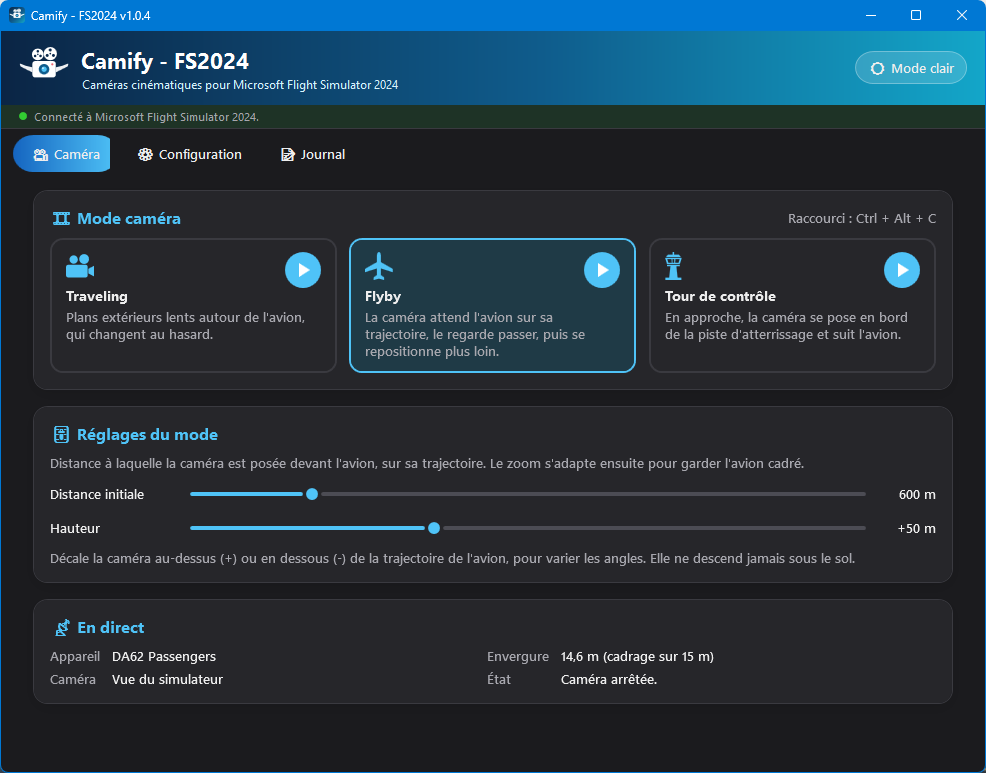
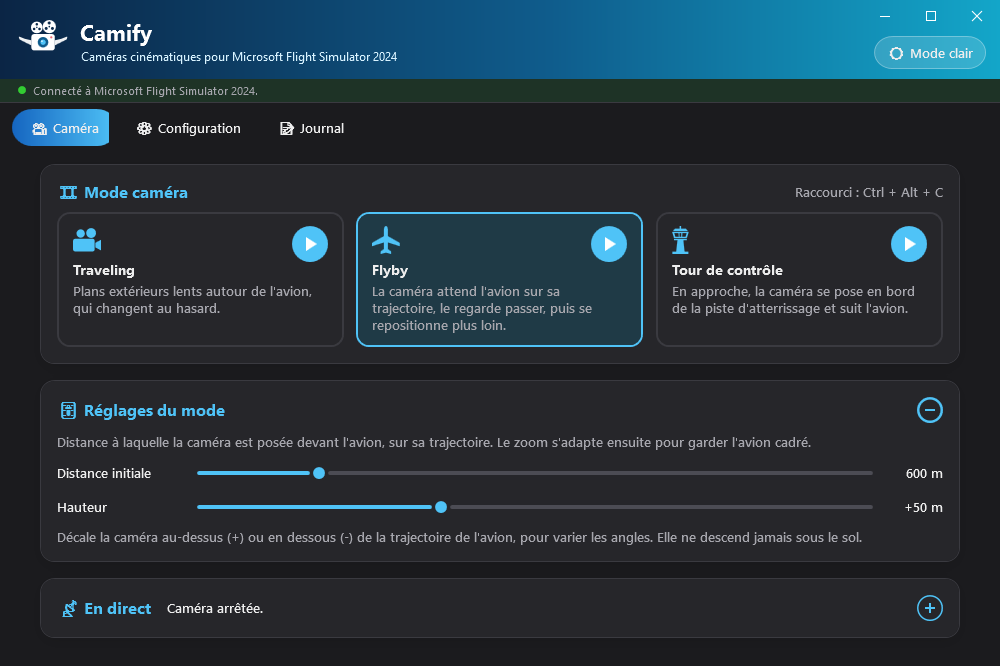
Guides de Camify : fenêtre sans cadre, cadres repliables, nouvelles captures
Guides et captures recopiés de Camify/docs ; CAMIFY_SIZES suit les nouvelles
hauteurs (la fenêtre s'ajuste aux cadres affichés).

diff --git a/guides/camify/guide-utilisateur.html b/guides/camify/guide-utilisateur.html
@@ -126,8 +126,14 @@
       <p class="section-lead">La bannière, l'indicateur de connexion, les trois onglets et le thème.</p>
       <div class="card">
         <ul>
-          <li>Une <strong>bannière</strong> en haut, avec le bouton <span class="btn-label">🌙 Mode sombre</span>
-          / <span class="btn-label">☀ Mode clair</span> qui bascule tout le thème de l'application
+          <li>Une <strong>bannière</strong> en haut, qui sert de barre de titre : faites-la glisser
+          pour déplacer la fenêtre, double-cliquez pour l'agrandir ou la restaurer. Les boutons
+          <strong>réduire</strong>, <strong>agrandir</strong> et <strong>fermer</strong> sont en haut
+          à droite ; sous Windows 11, survoler le bouton agrandir ouvre le <strong>menu
+          d'ancrage</strong> de Windows pour placer la fenêtre sur une moitié ou un quart de
+          l'écran, par exemple à côté du simulateur ;</li>
+          <li>Sous ces boutons, <span class="btn-label">🌙 Mode sombre</span>
+          / <span class="btn-label">☀ Mode clair</span> bascule tout le thème de l'application
           (conservé d'une session à l'autre) ;</li>
           <li>Une <strong>barre d'état</strong> avec un point de couleur (rouge = non connecté,
           vert = connecté). Tant que MSFS n'est pas disponible, Camify retente la connexion toutes
@@ -138,6 +144,10 @@
         <p>L'application s'affiche dans la <strong>langue de Windows</strong> si elle est disponible
         (français, anglais ou espagnol), et en <strong>anglais</strong> sinon. Vous pouvez en changer
         dans l'onglet <a href="#onglet-configuration">Configuration</a>.</p>
+        <p>Sur les onglets Caméra et Configuration, la <strong>hauteur de la fenêtre s'ajuste
+        toute seule</strong> à ce qui est affiché (cadre déplié ou replié, mode choisi, langue) : la
+        fenêtre reste aussi compacte que possible. Vous pouvez toujours la redimensionner par ses
+        bords.</p>
         <div class="shot-row">
           <figure class="shot">
             <img src="images/fr-onglet-camera-sombre.png" alt="Onglet Caméra en mode sombre, mode Traveling en cours" loading="lazy" />
@@ -145,7 +155,7 @@
           </figure>
           <figure class="shot">
             <img src="images/fr-onglet-camera-clair.png" alt="Onglet Caméra en mode clair" loading="lazy" />
-            <figcaption>Le même écran en mode clair.</figcaption>
+            <figcaption>Le même écran en mode clair, cadres repliés.</figcaption>
           </figure>
         </div>
       </div>
@@ -161,7 +171,7 @@
         contrôle.</p>
         <ul>
           <li><strong>Cliquer sur une carte</strong> la sélectionne et affiche ses réglages dans le
-          bloc <span class="ui">🎚 Réglages du mode</span>, sans démarrer la caméra ;</li>
+          cadre <span class="ui">🎚 Réglages du mode</span>, sans démarrer la caméra ;</li>
           <li>Le <strong>bouton rond ▶</strong> de chaque carte démarre ce mode. Il devient
           <strong>■</strong> pendant que le mode tourne : un clic l'arrête et rend la caméra au
           simulateur ;</li>
@@ -172,6 +182,13 @@
         </ul>
         <p>Les réglages des curseurs sont pris en compte immédiatement, même pendant que la caméra
         tourne, et conservés pour la prochaine session.</p>
+        <div class="callout tip">
+          <strong>Cadres repliables</strong>
+          Les cadres <span class="ui">🎚 Réglages du mode</span> et <span class="ui">📡 En direct</span>
+          sont <strong>repliés au démarrage</strong>, pour une fenêtre compacte à garder à côté du
+          simulateur. Le bouton <span class="btn-label">+</span> en haut à droite d'un cadre le
+          déplie, <span class="btn-label">−</span> le replie.
+        </div>
       </div>
 
       <h3 id="mode-traveling">Mode Traveling</h3>
@@ -303,7 +320,8 @@
             jusqu'à l'arrêt.</li>
           </ol>
           <p>Ce mode n'a pas de réglage. Il demande le référentiel des aéroports et des pistes :
-          s'il est vide, un avertissement rouge s'affiche sous la description.</p>
+          s'il est vide, un avertissement rouge s'affiche dans le cadre
+          <span class="ui">🎚 Réglages du mode</span>, sous la description.</p>
         </div>
       </div>
       <div class="card">
@@ -321,7 +339,10 @@
 
       <h3 id="camera-direct">Panneau En direct</h3>
       <div class="card">
-        <p>Le bloc <span class="ui">📡 En direct</span> est mis à jour quatre fois par seconde :</p>
+        <p>Le cadre <span class="ui">📡 En direct</span> est mis à jour quatre fois par seconde.
+        <strong>Replié</strong>, il affiche l'état de la caméra à droite de son titre (plan en
+        cours, distance, piste…) ; <strong>déplié</strong> (bouton <span class="btn-label">+</span>),
+        il détaille :</p>
         <table>
           <tr><th>Ligne</th><th>Contenu</th></tr>
           <tr><td>Appareil</td><td>Nom de l'appareil chargé dans le simulateur</td></tr>
@@ -417,6 +438,9 @@
           l'approche tout seul, vous n'avez plus qu'à piloter.</li>
           <li><strong>Pour reprendre la main</strong>, changez simplement de vue dans MSFS ou utilisez
           le raccourci clavier.</li>
+          <li><strong>Sur un seul écran</strong>, simulateur en mode fenêtré, ancrez Camify dans un
+          coin avec le menu d'ancrage de Windows 11 et laissez ses cadres repliés : l'état de la
+          caméra reste lisible à droite du titre <span class="ui">📡 En direct</span>.</li>
           <li><strong>Avec Carnet de Vol</strong>, les deux applications peuvent tourner pendant le
           même vol : l'une enregistre le vol, l'autre le filme.</li>
         </ul>

diff --git a/guides/camify/guia-usuario.html b/guides/camify/guia-usuario.html
@@ -125,8 +125,14 @@
       <p class="section-lead">El banner, el indicador de conexión, las tres pestañas y el tema.</p>
       <div class="card">
         <ul>
-          <li>Un <strong>banner</strong> en la parte superior, con el botón <span class="btn-label">🌙 Modo oscuro</span>
-          / <span class="btn-label">☀ Modo claro</span> que cambia el tema de toda la aplicación
+          <li>Un <strong>banner</strong> en la parte superior que hace de barra de título:
+          arrástrelo para mover la ventana, haga doble clic para maximizarla o restaurarla. Los
+          botones <strong>minimizar</strong>, <strong>maximizar</strong> y <strong>cerrar</strong>
+          están arriba a la derecha; en Windows 11, al pasar el ratón por el botón maximizar se abre
+          el <strong>menú de diseños de ajuste</strong> de Windows para colocar la ventana en la
+          mitad o un cuarto de la pantalla, por ejemplo junto al simulador;</li>
+          <li>Bajo estos botones, <span class="btn-label">🌙 Modo oscuro</span>
+          / <span class="btn-label">☀ Modo claro</span> cambia el tema de toda la aplicación
           (se conserva entre sesiones);</li>
           <li>Una <strong>barra de estado</strong> con un punto de color (rojo = no conectado,
           verde = conectado). Mientras MSFS no esté disponible, Camify reintenta la conexión cada
@@ -137,6 +143,10 @@
         <p>La aplicación se muestra en el <strong>idioma de Windows</strong> si está disponible
         (español, francés o inglés), y en <strong>inglés</strong> en caso contrario. Puede cambiarlo
         en la pestaña <a href="#pestana-configuracion">Configuración</a>.</p>
+        <p>En las pestañas Cámara y Configuración, la <strong>altura de la ventana se ajusta
+        sola</strong> a lo que se muestra (marco desplegado o plegado, modo elegido, idioma): la
+        ventana se mantiene lo más compacta posible. Siempre puede redimensionarla por sus
+        bordes.</p>
         <div class="shot-row">
           <figure class="shot">
             <img src="images/es-onglet-camera-sombre.png" alt="Pestaña Cámara en modo oscuro, modo Traveling en curso" loading="lazy" />
@@ -144,7 +154,7 @@
           </figure>
           <figure class="shot">
             <img src="images/es-onglet-camera-clair.png" alt="Pestaña Cámara en modo claro" loading="lazy" />
-            <figcaption>La misma pantalla en modo claro.</figcaption>
+            <figcaption>La misma pantalla en modo claro, marcos plegados.</figcaption>
           </figure>
         </div>
       </div>
@@ -160,7 +170,7 @@
         control.</p>
         <ul>
           <li><strong>Hacer clic en una tarjeta</strong> la selecciona y muestra sus ajustes en el
-          bloque <span class="ui">🎚 Ajustes del modo</span>, sin iniciar la cámara;</li>
+          marco <span class="ui">🎚 Ajustes del modo</span>, sin iniciar la cámara;</li>
           <li>El <strong>botón redondo ▶</strong> de cada tarjeta inicia ese modo. Se convierte en
           <strong>■</strong> mientras el modo está activo: un clic lo detiene y devuelve la cámara
           al simulador;</li>
@@ -172,6 +182,13 @@
         </ul>
         <p>Los cambios en los controles deslizantes se aplican de inmediato, incluso con la cámara
         en marcha, y se conservan para la siguiente sesión.</p>
+        <div class="callout tip">
+          <strong>Marcos plegables</strong>
+          Los marcos <span class="ui">🎚 Ajustes del modo</span> y <span class="ui">📡 En directo</span>
+          están <strong>plegados al iniciar</strong>, para una ventana compacta que se puede dejar
+          junto al simulador. El botón <span class="btn-label">+</span> arriba a la derecha de un
+          marco lo despliega, <span class="btn-label">−</span> lo pliega.
+        </div>
       </div>
 
       <h3 id="modo-traveling">Modo Traveling</h3>
@@ -302,7 +319,8 @@
             se detiene.</li>
           </ol>
           <p>Este modo no tiene ajustes. Necesita los datos de aeropuertos y pistas: si están
-          vacíos, aparece un aviso en rojo bajo la descripción.</p>
+          vacíos, aparece un aviso en rojo en el marco <span class="ui">🎚 Ajustes del modo</span>,
+          bajo la descripción.</p>
         </div>
       </div>
       <div class="card">
@@ -320,7 +338,10 @@
 
       <h3 id="camara-directo">Panel En directo</h3>
       <div class="card">
-        <p>El bloque <span class="ui">📡 En directo</span> se actualiza cuatro veces por segundo:</p>
+        <p>El marco <span class="ui">📡 En directo</span> se actualiza cuatro veces por segundo.
+        <strong>Plegado</strong>, muestra el estado de la cámara a la derecha de su título (plano
+        en curso, distancia, pista…); <strong>desplegado</strong> (botón
+        <span class="btn-label">+</span>), detalla:</p>
         <table>
           <tr><th>Línea</th><th>Contenido</th></tr>
           <tr><td>Aeronave</td><td>Nombre de la aeronave cargada en el simulador</td></tr>
@@ -416,6 +437,9 @@
           aproximación por sí solo, usted solo tiene que pilotar.</li>
           <li><strong>Para retomar el control</strong>, basta con cambiar la vista en MSFS o usar el
           atajo de teclado.</li>
+          <li><strong>Con una sola pantalla</strong> y el simulador en ventana, ajuste Camify a una
+          esquina con los diseños de ajuste de Windows 11 y deje sus marcos plegados: el estado de
+          la cámara sigue visible a la derecha del título <span class="ui">📡 En directo</span>.</li>
           <li><strong>Con Carnet de Vol</strong>, ambas aplicaciones pueden funcionar durante el
           mismo vuelo: una registra el vuelo y la otra lo filma.</li>
         </ul>

diff --git a/guides/camify/user-guide.html b/guides/camify/user-guide.html
@@ -124,9 +124,15 @@
       <p class="section-lead">The banner, the connection indicator, the three tabs and the theme.</p>
       <div class="card">
         <ul>
-          <li>A <strong>banner</strong> at the top, with the <span class="btn-label">🌙 Dark mode</span>
-          / <span class="btn-label">☀ Light mode</span> button that switches the whole application
-          theme (remembered between sessions);</li>
+          <li>A <strong>banner</strong> at the top that doubles as the title bar: drag it to move
+          the window, double-click it to maximize or restore. The <strong>minimize</strong>,
+          <strong>maximize</strong> and <strong>close</strong> buttons sit at the top right; on
+          Windows 11, hovering over the maximize button opens the Windows <strong>snap
+          layouts</strong> menu to put the window on half or a quarter of the screen, next to the
+          simulator for instance;</li>
+          <li>Below these buttons, <span class="btn-label">🌙 Dark mode</span>
+          / <span class="btn-label">☀ Light mode</span> switches the whole application theme
+          (remembered between sessions);</li>
           <li>A <strong>status bar</strong> with a coloured dot (red = not connected, green =
           connected). While MSFS is not available, Camify retries the connection every
           <strong>5 seconds</strong>, with nothing for you to do;</li>
@@ -136,6 +142,9 @@
         <p>The application is shown in the <strong>Windows language</strong> when available
         (English, French or Spanish), and in <strong>English</strong> otherwise. You can change it
         in the <a href="#settings-tab">Settings</a> tab.</p>
+        <p>On the Camera and Settings tabs, the <strong>window height adjusts by itself</strong> to
+        what is displayed (panel expanded or collapsed, selected mode, language): the window stays
+        as compact as possible. You can still resize it by its edges.</p>
         <div class="shot-row">
           <figure class="shot">
             <img src="images/en-onglet-camera-sombre.png" alt="Camera tab in dark mode, Traveling mode running" loading="lazy" />
@@ -143,7 +152,7 @@
           </figure>
           <figure class="shot">
             <img src="images/en-onglet-camera-clair.png" alt="Camera tab in light mode" loading="lazy" />
-            <figcaption>The same screen in light mode.</figcaption>
+            <figcaption>The same screen in light mode, panels collapsed.</figcaption>
           </figure>
         </div>
       </div>
@@ -158,7 +167,7 @@
         <p>The tab shows three <strong>mode cards</strong>: Traveling, Flyby and Control tower.</p>
         <ul>
           <li><strong>Clicking a card</strong> selects it and shows its settings in the
-          <span class="ui">🎚 Mode settings</span> block, without starting the camera;</li>
+          <span class="ui">🎚 Mode settings</span> panel, without starting the camera;</li>
           <li>Each card's <strong>round ▶ button</strong> starts that mode. It turns into
           <strong>■</strong> while the mode runs: a click stops it and hands the camera back to the
           simulator;</li>
@@ -169,6 +178,13 @@
         </ul>
         <p>Slider changes apply immediately, even while the camera is running, and are kept for the
         next session.</p>
+        <div class="callout tip">
+          <strong>Collapsible panels</strong>
+          The <span class="ui">🎚 Mode settings</span> and <span class="ui">📡 Live</span> panels are
+          <strong>collapsed at startup</strong>, for a compact window to keep next to the simulator.
+          The <span class="btn-label">+</span> button at the top right of a panel expands it,
+          <span class="btn-label">−</span> collapses it.
+        </div>
       </div>
 
       <h3 id="mode-traveling">Traveling mode</h3>
@@ -299,7 +315,8 @@
             until it stops.</li>
           </ol>
           <p>This mode has no settings. It needs the airport and runway data: if it is empty, a red
-          warning appears below the description.</p>
+          warning appears in the <span class="ui">🎚 Mode settings</span> panel, below the
+          description.</p>
         </div>
       </div>
       <div class="card">
@@ -317,7 +334,10 @@
 
       <h3 id="camera-live">Live panel</h3>
       <div class="card">
-        <p>The <span class="ui">📡 Live</span> block is updated four times per second:</p>
+        <p>The <span class="ui">📡 Live</span> panel is updated four times per second.
+        <strong>Collapsed</strong>, it shows the camera status to the right of its title (current
+        shot, distance, runway…); <strong>expanded</strong> (<span class="btn-label">+</span>
+        button), it details:</p>
         <table>
           <tr><th>Line</th><th>Content</th></tr>
           <tr><td>Aircraft</td><td>Name of the aircraft loaded in the simulator</td></tr>
@@ -411,6 +431,9 @@
           approach by itself, you just fly.</li>
           <li><strong>To take back control</strong>, simply change the view in MSFS or use the
           keyboard shortcut.</li>
+          <li><strong>On a single screen</strong>, with the simulator windowed, snap Camify to a
+          corner with the Windows 11 snap layouts and leave its panels collapsed: the camera status
+          stays readable to the right of the <span class="ui">📡 Live</span> title.</li>
           <li><strong>With Flight Logbook</strong>, both applications can run during the same
           flight: one logs the flight, the other films it.</li>
         </ul>

diff --git a/assets/js/main.js b/assets/js/main.js
@@ -108,8 +108,8 @@
     stats: [1286, 893], config: [1286, 893], atterrissage: [344, 134]
   };
   var CAMIFY_SIZES = {
-    "camera-sombre": [986, 773], "camera-clair": [986, 773], flyby: [986, 773],
-    config: [986, 773], journal: [986, 773]
+    "camera-sombre": [1000, 742], "camera-clair": [1000, 544], flyby: [1000, 666],
+    config: [1000, 723], journal: [1000, 780]
   };
 
   function zoomable(name, alt, extraClass, app) {
